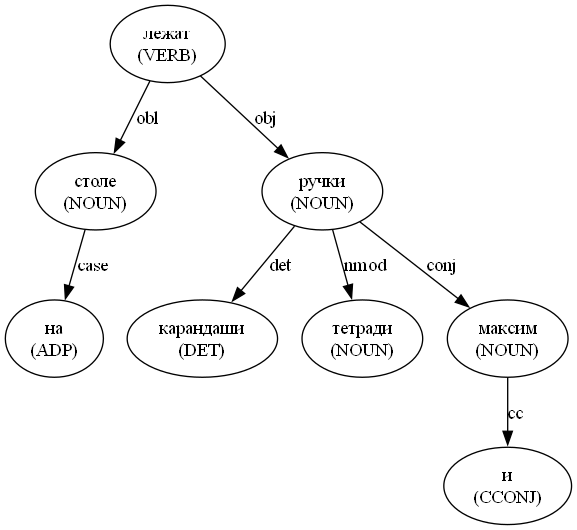
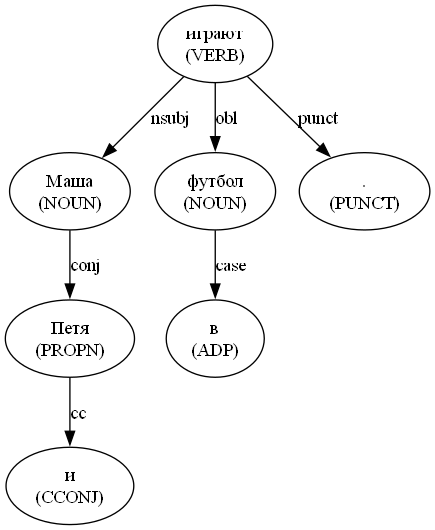
ss

diff --git a/main2.py b/main2.py
@@ -4,13 +4,17 @@ from collections import Counter
 import matplotlib.pyplot as plt
 from matplotlib.ticker import FuncFormatter
 import pymorphy3
-import numpy as np
 
 
+# Имя файла со словарём словоформ (результат задания №1)
 DICT_FILE = "dictionary.json"
+# Файл со стоп-словами (одно слово на строку, строки с # — комментарии)
 STOP_WORDS_FILE = "stop_words.txt"
+# Сколько слов показывать в топе
 TOP_N = 40
 
+# Единственный экземпляр морфоанализатора — создаём один раз,
+# так как инициализация pymorphy3 довольно тяжёлая.
 morph = pymorphy3.MorphAnalyzer()
 
 
@@ -20,42 +24,31 @@ def load_dict(path: str) -> Counter:
 
 
 def save_dict(counter: Counter, path: str) -> None:
-<<<<<<< HEAD
-    """Сохраняет счётчик в JSON-файл (ключ — слово, значение — частота)."""
-=======
->>>>>>> 1b49848ac7b55ff7e5d0cc2012291773ebaa3160
     with open(path, "w", encoding="utf-8") as file:
         json.dump(dict(counter), file, ensure_ascii=False, indent=2)
 
 
 def load_stop_words(path: str) -> set[str]:
-<<<<<<< HEAD
-    """Загружает стоп-слова из файла."""
-=======
->>>>>>> 1b49848ac7b55ff7e5d0cc2012291773ebaa3160
     try:
         with open(path, encoding="utf-8") as file:
-            return {line.strip().lower() for line in file}
+            return {
+                line.strip().lower()
+                for line in file
+                if line.strip() and not line.startswith("#")
+            }
     except FileNotFoundError:
         return set()
 
 
 def to_lemmas(words: Counter) -> Counter:
-    """Строит Словарь 2 — частотный словарь лемм."""
     lemmas = Counter()
     for word, count in words.items():
-<<<<<<< HEAD
-=======
-        # parse возвращает список возможных разборов слова; [0] - самая вероятная
-        # .normal_form - лемма (начальная форма) слова
->>>>>>> 1b49848ac7b55ff7e5d0cc2012291773ebaa3160
         lemma = morph.parse(word)[0].normal_form
         lemmas[lemma] += count
     return lemmas
 
 
 def remove_stop_words(words: Counter, stop_words: set[str], by_lemma: bool = False) -> Counter:
-    """Удаляет стоп-слова. Если by_lemma=True — сравнивает по лемме."""
     result = Counter()
     for word, cnt in words.items():
         key = morph.parse(word)[0].normal_form if by_lemma else word
@@ -65,16 +58,16 @@ def remove_stop_words(words: Counter, stop_words: set[str], by_lemma: bool = Fal
 
 
 def print_comparison(dictionaries: dict[str, Counter]) -> None:
-    """Сравнение топ-40 слов из четырёх словарей — таблицей."""
     print(f"\nТОП-{TOP_N} СЛОВ:")
     
-    # Делаем колонки пошире, так как названия стали длиннее
+    # Делаем колонки пошире, так как названия словарей длинные
     col_width = 30
     print(f"{'Ранг':<6}", end="")
     for name in dictionaries:
         print(f"{name:<{col_width}}", end="")
     print()
 
+    # Получаем самые частые слова для каждого словаря
     tops = {name: dictionary.most_common(TOP_N) for name, dictionary in dictionaries.items()}
 
     for rank in range(TOP_N):
@@ -83,30 +76,20 @@ def print_comparison(dictionaries: dict[str, Counter]) -> None:
             items = tops[name]
             if rank < len(items):
                 word, count = items[rank]
-<<<<<<< HEAD
                 cell = f"{word}: {count}"
                 print(f"{cell[:col_width]:<{col_width}}", end="")
-=======
-                cell = f"{word}: {count}"          # например "и: 37620"
-                print(f"{cell[:20]:<{20}}", end="")  # обрезаем до 20 и дополняем до 20
->>>>>>> 1b49848ac7b55ff7e5d0cc2012291773ebaa3160
             else:
                 print(f"{'-':<{col_width}}", end="")
         print()
 
 
-<<<<<<< HEAD
 def zipf_constant(words: Counter) -> float:
-    """Расчет константы Зипфа
-    
-    C = sum(y_i / x_i) / sum(1 / x_i^2)
-    """
     items = words.most_common()
-    numerator = 0.0
-    denominator = 0.0
+    numerator = 0.0      # sum(y_i / x_i)
+    denominator = 0.0    # sum(1 / x_i^2)
 
     for rank, (_, count) in enumerate(items, start=1):
-        if count < 3:  # отсекаем хвост
+        if count < 3:  # отсекаем хвост, влияющий константу Зипфа (частоты 1 и 2 слишком редки)
             break
         numerator += count / rank
         denominator += 1 / (rank ** 2)
@@ -114,65 +97,25 @@ def zipf_constant(words: Counter) -> float:
     if denominator == 0:
         return 0.0
     return numerator / denominator
-=======
-
-def zipf_constant(words: Counter, N: int) -> float:
-    # Вычисляет относительную константу Зипфа методом МНК без логарифмирования,
-    # строго по формуле аппроксимации функции y = c/x.
-    if not words:
-        return 0.0
-    
-    # 1. Формируем массивы рангов (x) и относительных частот (y)
-    items = words.most_common()
-    ranks = np.arange(1, len(items) + 1)                       # x_i
-    frequencies = np.array([count / N for _, count in items])  # y_i
-    
-    # 2. Считаем числитель: сумма (y_i / x_i)
-    numerator = np.sum(frequencies / ranks)
-    
-    # 3. Считаем знаменатель: сумма (1 / x_i^2)
-    denominator = np.sum(1 / (ranks ** 2))
-    
-    # 4. Находим константу c
-    c_relative = numerator / denominator
-    
-    return float(c_relative)
 
 
-
->>>>>>> 1b49848ac7b55ff7e5d0cc2012291773ebaa3160
-
-def plot_zipf(dictionaries: dict[str, Counter], N: int) -> None:
-
-<<<<<<< HEAD
 def plot_zipf(dictionaries: dict[str, Counter]) -> None:
-    """Строит две диаграммы Зипфа на каждый словарь."""
     def plot_formatter(x, _):
-=======
-    def fmt(x, _):
->>>>>>> 1b49848ac7b55ff7e5d0cc2012291773ebaa3160
+        # Форматирует числа на осях: убирает степени 10 и добавляет пробелы
         if x >= 1:
             return f"{int(x):,}".replace(",", " ")
         return f"{x:g}"
 
-<<<<<<< HEAD
+    # Создаем две фигуры (полная и топ-40)
     fig_full, axes_full = plt.subplots(2, 2, figsize=(14, 10))
     fig_top40, axes_top40 = plt.subplots(2, 2, figsize=(14, 10))
 
     for i, (name, dictionary) in enumerate(dictionaries.items()):
-=======
-    def setup_axes():
-        ax = plt.gca()
-        ax.xaxis.set_major_formatter(FuncFormatter(fmt))
-        ax.yaxis.set_major_formatter(FuncFormatter(fmt))
-
-    for name, dictionary in dictionaries.items():
->>>>>>> 1b49848ac7b55ff7e5d0cc2012291773ebaa3160
         items = dictionary.most_common()
         ranks = list(range(1, len(items) + 1))
-        frequencies = [count / N for _, count in items]
+        frequencies = [count for _, count in items]
 
-<<<<<<< HEAD
+        # Считаем константу для графика
         c = zipf_constant(dictionary)
 
         # ---------- 1. Полная диаграмма (лог-лог) ----------
@@ -205,6 +148,7 @@ def plot_zipf(dictionaries: dict[str, Counter]) -> None:
         ax.set_ylabel("Частота")
         ax.grid(True, alpha=0.3)
         ax.legend()
+        # Фиксируем ось X, чтобы она начиналась с 1 (ранга 0 не существует)
         ax.set_xlim(0.5, TOP_N + 1.5)
 
     fig_full.tight_layout()
@@ -215,60 +159,25 @@ def plot_zipf(dictionaries: dict[str, Counter]) -> None:
 
 
 def main() -> None:
-=======
-    #    # --- 1. Полная диаграмма ---
-    #    plt.figure(figsize=(10, 6))
-    #    plt.loglog(ranks, frequencies, marker=".", linestyle="none")
-    #    plt.xlabel("Ранг слова")
-    #    plt.ylabel("Частота")
-    #    plt.title(f"Закон Зипфа (полная): {name}")
-    #    plt.grid(True, which="both", alpha=0.3)
-    #    setup_axes()
-    #    plt.tight_layout()
-    #    plt.savefig(f"zipf_full_{name}.png", dpi=150)
-    #    plt.show()
-#
-    #    # --- 2. Диаграмма для рангов 0–40 ---
-    #    n = 40
-    #    plt.figure(figsize=(10, 6))
-    #    plt.plot(ranks[:n], frequencies[:n], marker="o")   # линейный масштаб
-    #    plt.xlabel("Ранг слова")
-    #    plt.ylabel("Частота")
-    #    plt.title(f"Закон Зипфа (ранги 0–40): {name}")
-    #    plt.grid(True, alpha=0.3)
-    #    plt.tight_layout()
-    #    plt.savefig(f"zipf_top40_{name}.png", dpi=150)
-    #    plt.show()
-
-
-def main() -> None:
-    # Загружаем словарь словоформ (Словарь 1)
->>>>>>> 1b49848ac7b55ff7e5d0cc2012291773ebaa3160
+    # 1. Загружаем Словарь 1 — словоформы
     try:
         word_forms = load_dict(DICT_FILE)
     except FileNotFoundError:
         print(f"Не найден файл словаря: {DICT_FILE}")
         return
 
-<<<<<<< HEAD
+    # 2. Загружаем стоп-слова
     stop_words = load_stop_words(STOP_WORDS_FILE)
+
+    # 3. Строим Словарь 2 — леммы
     lemmas = to_lemmas(word_forms)
 
+    # 4. Строим Словари 3 и 4 — без стоп-слов
+    #    Для словоформ сравниваем по лемме, чтобы удалялись все формы стоп-слов
     word_forms_no_stop_words = remove_stop_words(word_forms, stop_words, by_lemma=True)
-=======
-    N = sum(word_forms.values())
-
-    # Стоп-слова
-    stop_words = load_stop_words(STOP_WORDS_FILE)
-
-    # Словарь 2 - леммы
-    lemmas = to_lemmas(word_forms)
-
-    # Словари 3 и 4 - без стоп-слов
-    word_forms_no_stop_words = remove_stop_words(word_forms, stop_words)
->>>>>>> 1b49848ac7b55ff7e5d0cc2012291773ebaa3160
     lemmas_no_stop_words = remove_stop_words(lemmas, stop_words)
 
+    # 5. Собираем все четыре словаря с нужными названиями
     dictionaries = {
         "Исходный": word_forms,
         "Леммы": lemmas,
@@ -276,35 +185,27 @@ def main() -> None:
         "Леммы стоп-слова": lemmas_no_stop_words,
     }
 
+    # Сохраняем промежуточные словари на диск
     save_dict(lemmas, "dictionary_2_lemmas.json")
     save_dict(word_forms_no_stop_words, "dictionary_3_no_stop_words.json")
     save_dict(lemmas_no_stop_words, "dictionary_4_lemmas_no_stop_words.json")
 
-<<<<<<< HEAD
+    # 6. Выводим топ-40 в виде таблицы
     print_comparison(dictionaries)
 
+    # 7. Считаем и выводим константы Зипфа
     print("\nКОНСТАНТЫ ЗИПФА (по формуле со слайда, МНК для y = C/x):")
     for name, dictionary in dictionaries.items():
         c = zipf_constant(dictionary)
         print(f"  {name}: {c:.2f}")
 
+    # 8. Выводим общую статистику
     print("\nСТАТИСТИКА:")
     for name, dictionary in dictionaries.items():
         print(f"  {name}: {sum(dictionary.values())} вхождений, {len(dictionary)} различных слов")
 
+    # 9. Строим графики
     plot_zipf(dictionaries)
-=======
-    # Сравниваем топ-40 по всем словарям
-    print_comparison(dictionaries)
-
-    # Считаем и выводим константу Зипфа
-    print("\nКонстанты Зипфа:")
-    for name, dictionary in dictionaries.items():
-        print(f"  {name}: {zipf_constant(dictionary, N):.6f}")
-
-    # Строим графики закона Зипфа
-    plot_zipf(dictionaries, N)
->>>>>>> 1b49848ac7b55ff7e5d0cc2012291773ebaa3160
 
 
 if __name__ == "__main__":
